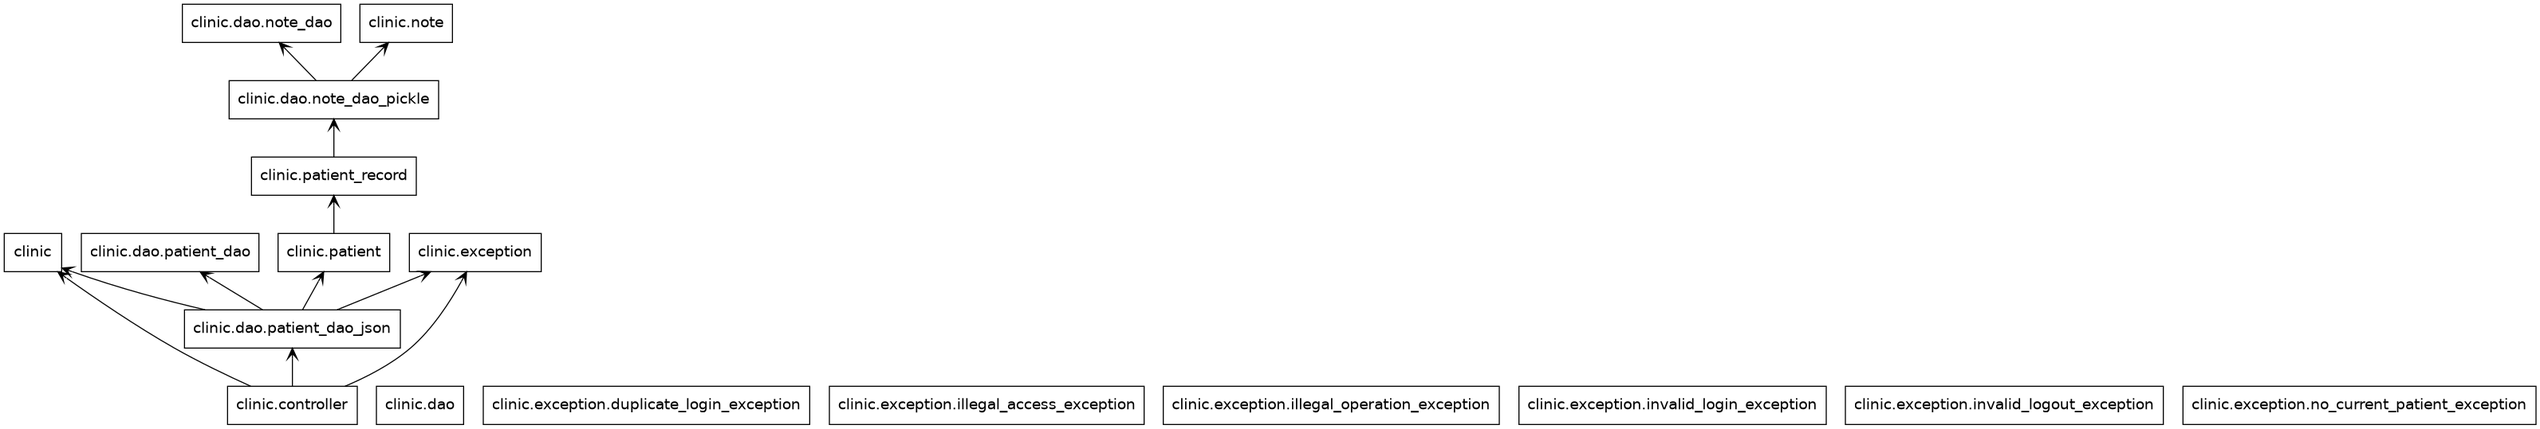
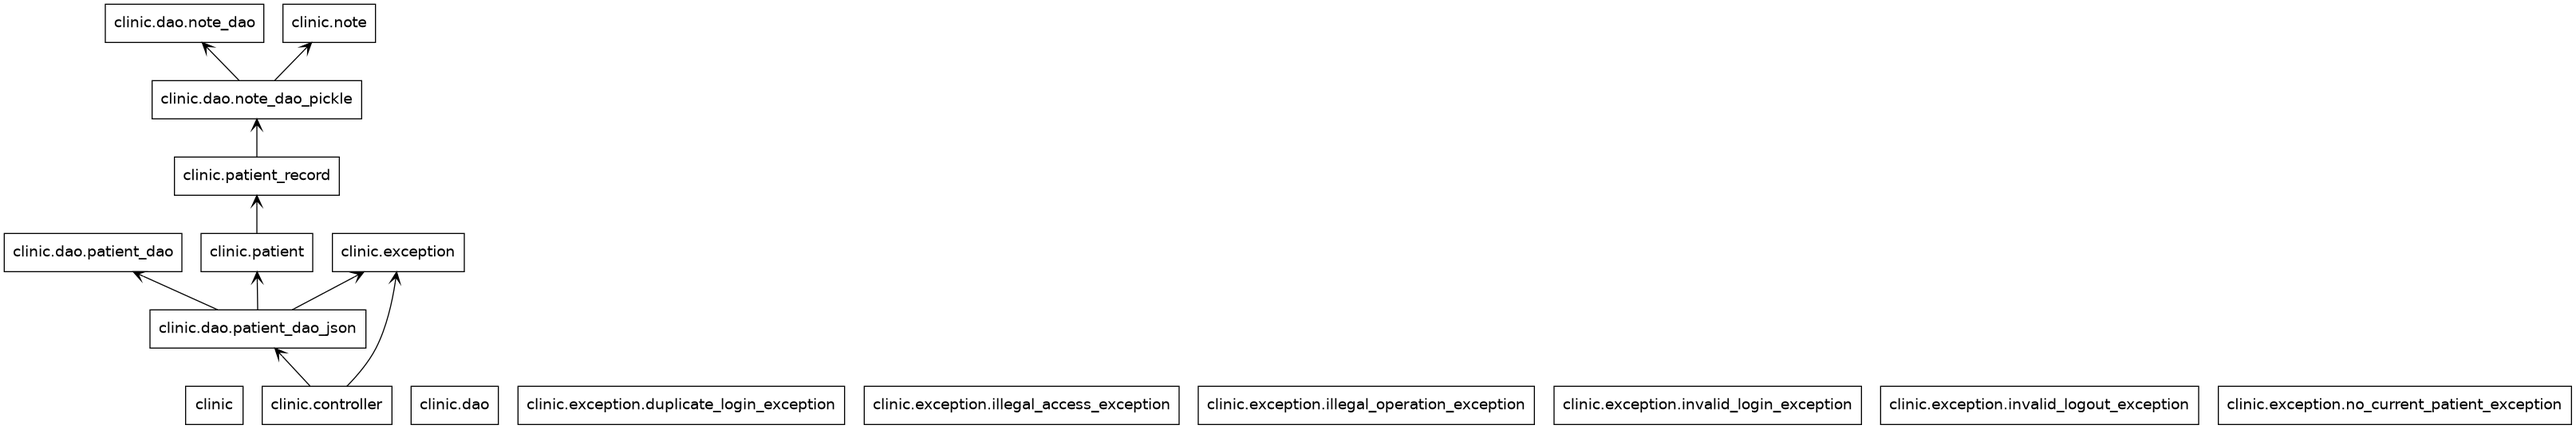
Refactor patient and note retrieval: update methods to utilize DAO for patient search, enhance note retrieval in PatientRecord, and adjust tests for new functionality.

diff --git a/a4/tests/patient_test.py b/a4/tests/patient_test.py
@@ -20,10 +20,10 @@ class TestPatient(unittest.TestCase):
             code=code, text=text
         )
         self.patient.record.remove_note = lambda code: True
-        self.patient.record.notes = [
-            Note(code="001", text="First note"),
-            Note(code="002", text="Second note")
-        ]
+        self.patient.record.notes.notes = {
+            "001": Note(code="001", text="First note"),
+            "002": Note(code="002", text="Second note")
+        }
 
     def test_update_patient_info(self):
         self.patient.update(
@@ -47,7 +47,7 @@ class TestPatient(unittest.TestCase):
         )
         self.assertEqual(note.text, "This is a new note")
 
-    def test_retrieve_notes(self):
+    def test_retrieve_notes_from_patient_record(self):
         notes = self.patient.retrieve_notes(
             search_term="First"
         )
@@ -76,10 +76,12 @@ class TestPatient(unittest.TestCase):
         self.assertTrue(result)
 
     def test_list_all_notes(self):
-        notes = self.patient.record.notes
+        notes = self.patient.list_notes()
         self.assertEqual(len(notes), 2)
-        self.assertEqual(notes[0].text, "First note")
-        self.assertEqual(notes[1].text, "Second note")
+        self.assertEqual(notes[0].text, "Second note") #most recent note first
+        self.assertEqual(notes[1].text, "First note")
+
+
 
 if __name__ == '__main__':
     unittest.main()

diff --git a/a4/clinic/controller.py b/a4/clinic/controller.py
@@ -1,5 +1,5 @@
 #new functionality: exception handling
-from clinic import exception 
+import clinic.exception as exception 
 from clinic.dao.patient_dao_json import PatientDAOJSON
 
 
@@ -68,10 +68,8 @@ class Controller:
     #this function returns a list of patients that have names that contain the supplied substring (search_term)
     def retrieve_patients(self, search_term):
         self.check_login('retrieve patients')
-        results = []
-        for patient in self.patients:
-            if search_term in patient.name:
-                results.append(patient)
+        #delegate to the DAO to get the list of patients.
+        results = self.patients.retrieve_patients(search_term)
         print(f'{len(results)} patients found.')
         return results
 

diff --git a/a4/clinic/patient_record.py b/a4/clinic/patient_record.py
@@ -38,9 +38,13 @@ class PatientRecord:
     
     # sort notes by timestamp and list them.
     def list_notes(self):
-        #sort the notes by timestamp (recent first) and return them.
+        #sort the notes by timestamp (recent first) and return them. Not sure if I can use dict.values() here.
         sorted_notes = sorted(self.notes, key=lambda x: x.timestamp, reverse=True) #sort by timestamp, most recent first (via lambda function)
         for note in sorted_notes:
             print(f'Note {note.code}: "{note.text}" Time: {note.timestamp}')
         return sorted_notes
+    
+    #search for a note with a given search term.
+    def retrieve_notes(self, search_term):
+        return self.notes.retrieve_notes(search_term)
     

diff --git a/a4/clinic/patient.py b/a4/clinic/patient.py
@@ -15,11 +15,7 @@ class Patient:
         return self.phn == other.phn and self.name == other.name and self.birth_date == other.birth_date and self.phone == other.phone and self.email == other.email and self.address == other.address and self.record == other.record
     
     def retrieve_notes(self, search_term):
-        results = []
-        for note in self.record.notes:
-            if search_term in note.text:
-                results.append(note)
-        return results
+        return self.record.retrieve_notes(search_term)
     
     def get_note(self, code):
         for note in self.record.notes:

diff --git a/a4/clinic/dao/patient_dao_json.py b/a4/clinic/dao/patient_dao_json.py
@@ -1,4 +1,4 @@
-from clinic import exception
+import clinic.exception as exception
 from clinic.dao.patient_dao import PatientDAO
 from clinic.patient import Patient
 
@@ -22,7 +22,7 @@ class PatientDAOJSON(PatientDAO):
 
     def retrieve_patients(self, search_string) -> list[Patient]:
         results = []
-        for patient in self._patients:
+        for patient in self._patients.values():
             if search_string in patient.name:
                 results.append(patient)
         return results

diff --git a/a4/clinic/dao/note_dao_pickle.py b/a4/clinic/dao/note_dao_pickle.py
@@ -10,7 +10,7 @@ class NoteDAOPickle(NoteDAO):
         self.notes = {}
 
     
-
+    #allow "list" functionality for the notes object.
     def __iter__(self):
         return iter(self.notes.values())
     
